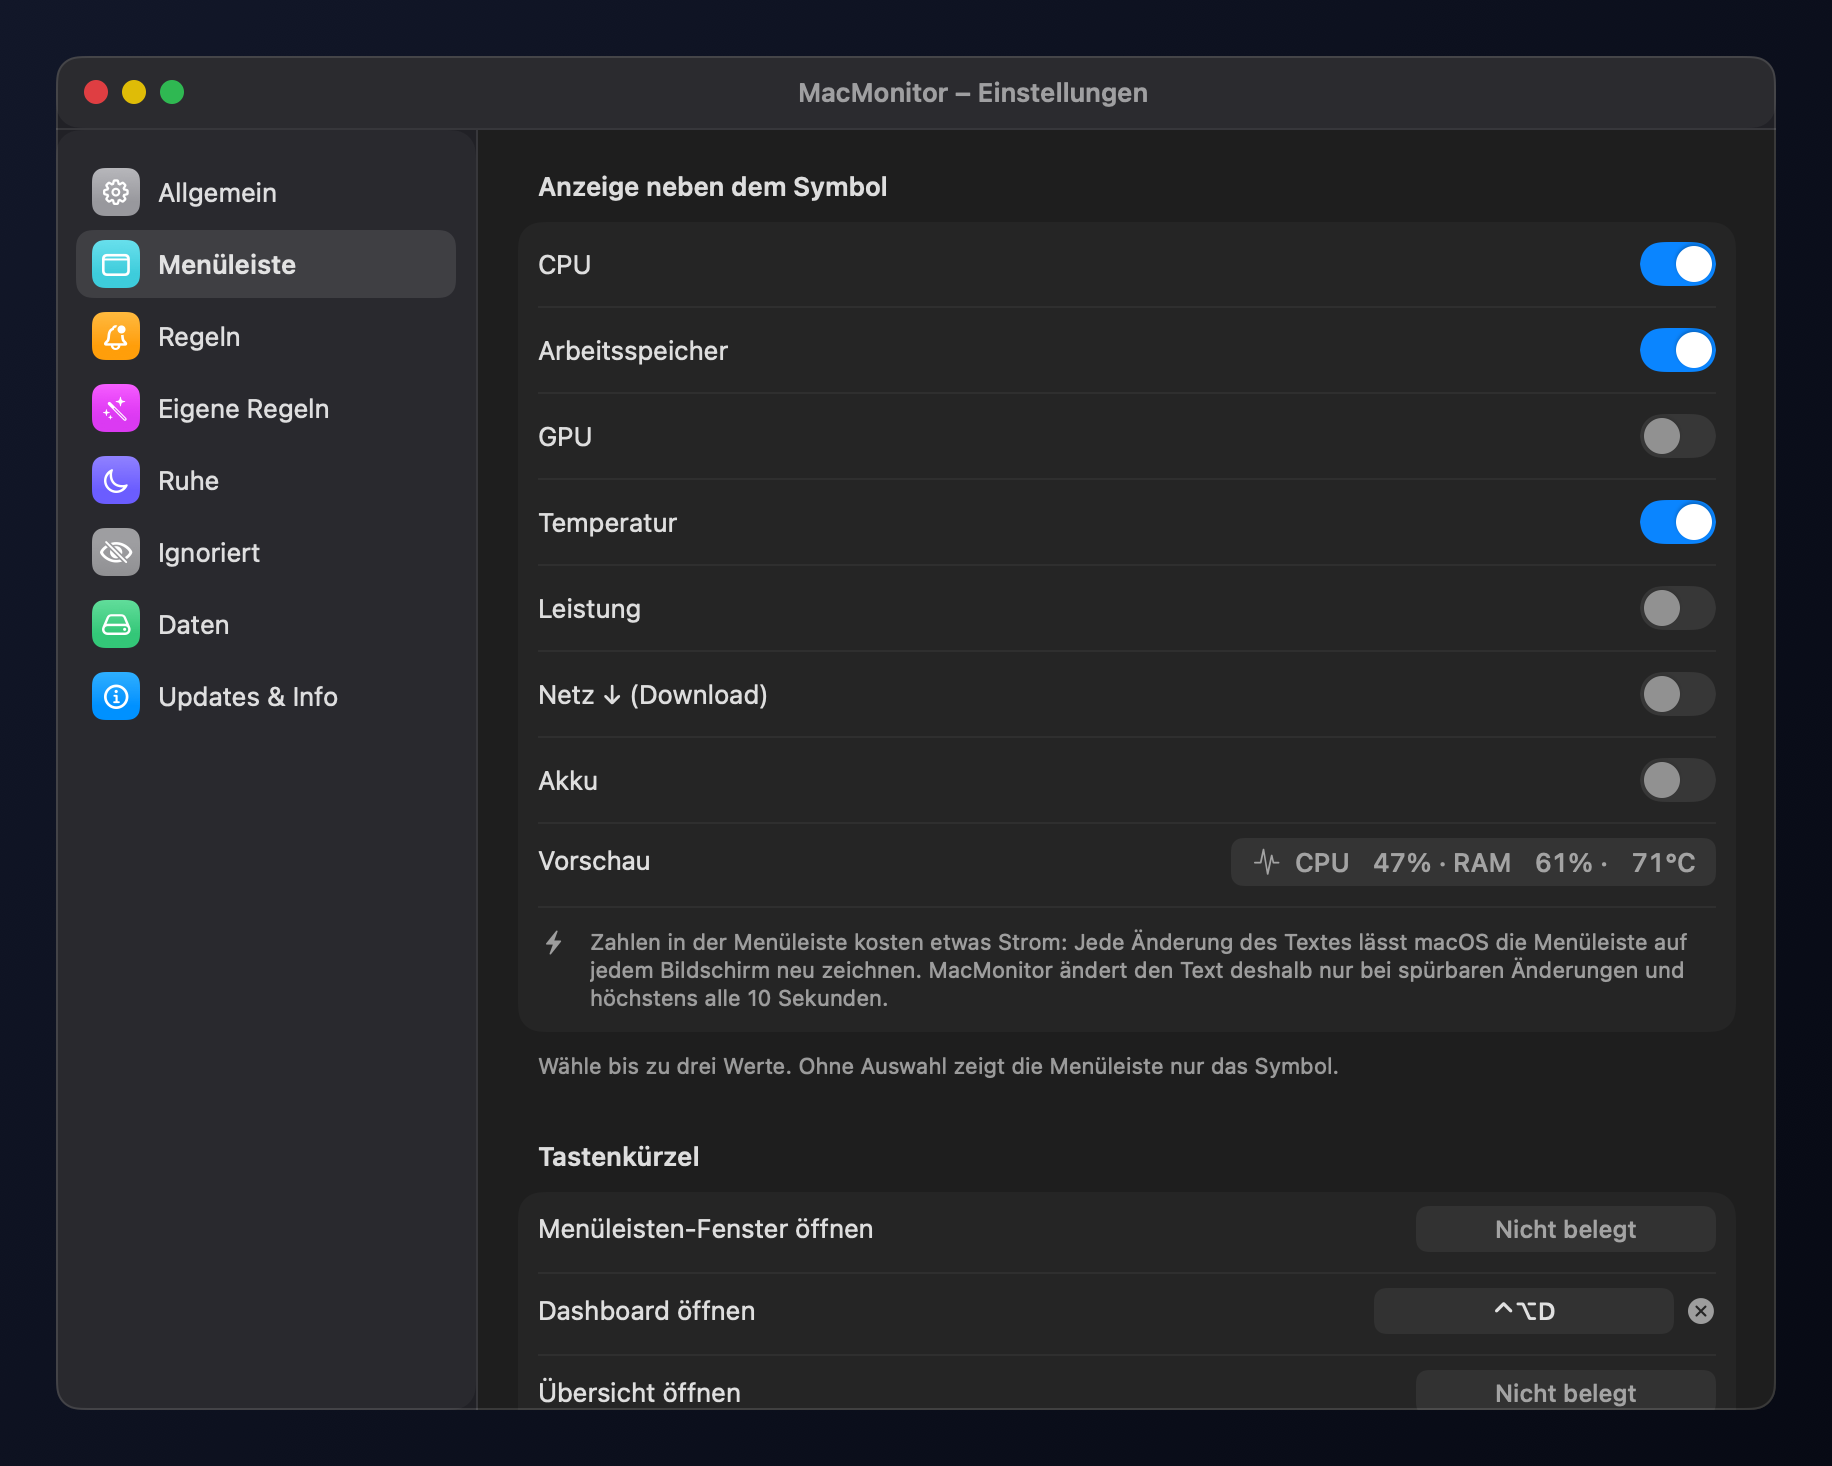
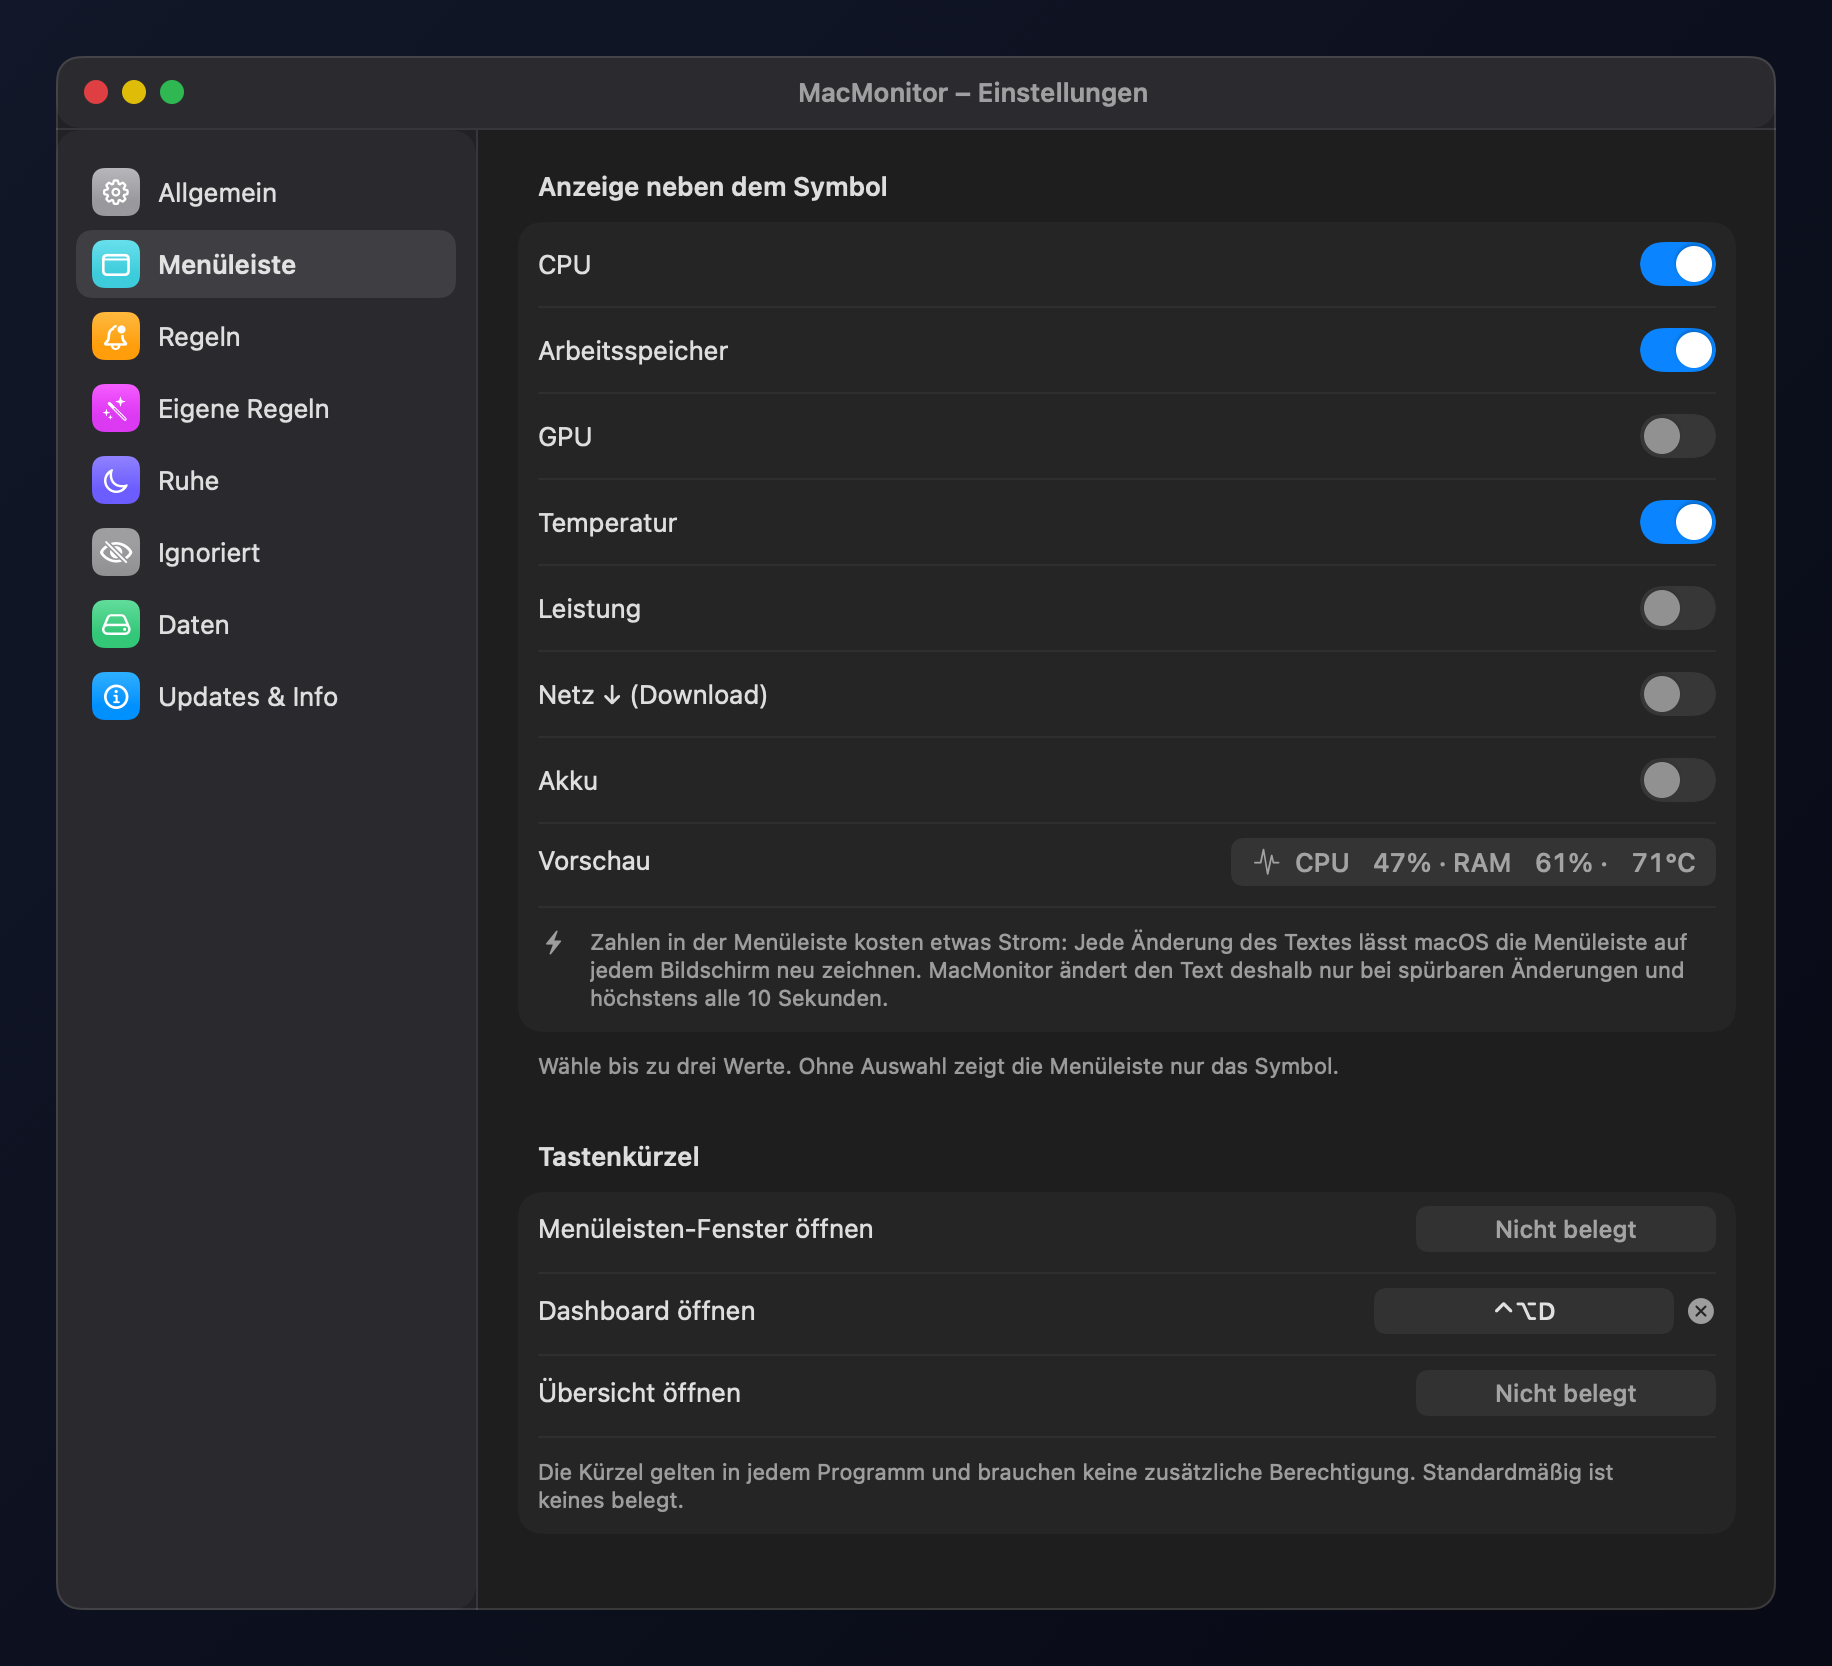
docs: Bildausschnitte der Einstellungen ohne angeschnittene Zeilen, Willkommensbild im Ausgangszustand

diff --git a/Sources/MacMonitor/DocRenderer.swift b/Sources/MacMonitor/DocRenderer.swift
@@ -72,14 +72,14 @@ enum DocRenderer {
         broken.processName = ""
 
         let shots: [(String, SettingsTab, CustomRule?, CGFloat)] = [
-            ("settings-rules", .rules, nil, 760), ("settings-custom-rule", .customRules, broken, 800),
-            ("settings-quiet", .quiet, nil, 640), ("settings-menubar", .menuBar, nil, 640),
+            ("settings-rules", .rules, nil, 735), ("settings-custom-rule", .customRules, broken, 800),
+            ("settings-quiet", .quiet, nil, 730), ("settings-menubar", .menuBar, nil, 740),
         ]
         for (name, tab, preview, height) in shots {
             model.settingsTab = tab
             writeHosted(SettingsShot(model: model, previewRule: preview, height: height), to: url.appendingPathComponent("\(name).png"))
         }
-        writeHosted(WelcomeShot(model: model), to: url.appendingPathComponent("welcome.png"))
+        writeHosted(WelcomeShot(model: AppModel.demo(alerts: false)), to: url.appendingPathComponent("welcome.png"))
     }
 
     /// Captures a SwiftUI view with real AppKit controls at 2x. Needs a window, which stays hidden.
